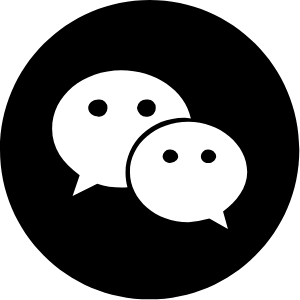
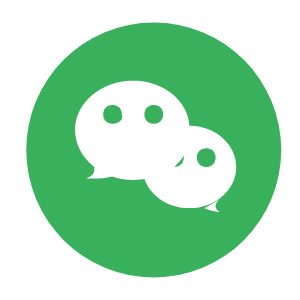
分享界面开发（已完成）

diff --git a/fenxiang.html b/fenxiang.html
@@ -20,18 +20,20 @@
 		</div>
 		<div style="height: 20px"></div>
 		<div>
-			<div style="width: 80%; justify-content: space-around; margin: auto" class="flex">
-				<div class="flex">
-					<div style="width: 30px">
+			<div style="width: 80%; justify-content: space-around; margin: auto;" class="flex">
+				<div class="flex" style="border-radius: 25px; background-color: #F0F0F0;height: 40px">
+					<div>&nbsp;&nbsp;</div>
+					<div style="width: 30px" class="flex">
 						<img src="img/wx.png" style="width: 100%;height: 100%">
 					</div>
-					<div>分享好友</div>
+					<div>&nbsp;分享好友&nbsp;&nbsp;</div>
 				</div>
-				<div class="flex">
-					<div style="width: 30px">
-						<img src="img/wx.png" style="width: 100%;height: 100%">
+				<div class="flex" style="border-radius: 25px; background-color: #F0F0F0; height: 40px">
+					<div>&nbsp;&nbsp;</div>
+					<div style="width: 25px;" class="flex">
+						<img src="img/bctp.png" style="width: 100%;height: 100%">
 					</div>
-					<div>分享好友</div>
+					<div>&nbsp;保存图片&nbsp;&nbsp;</div>
 				</div>
 			</div>
 
